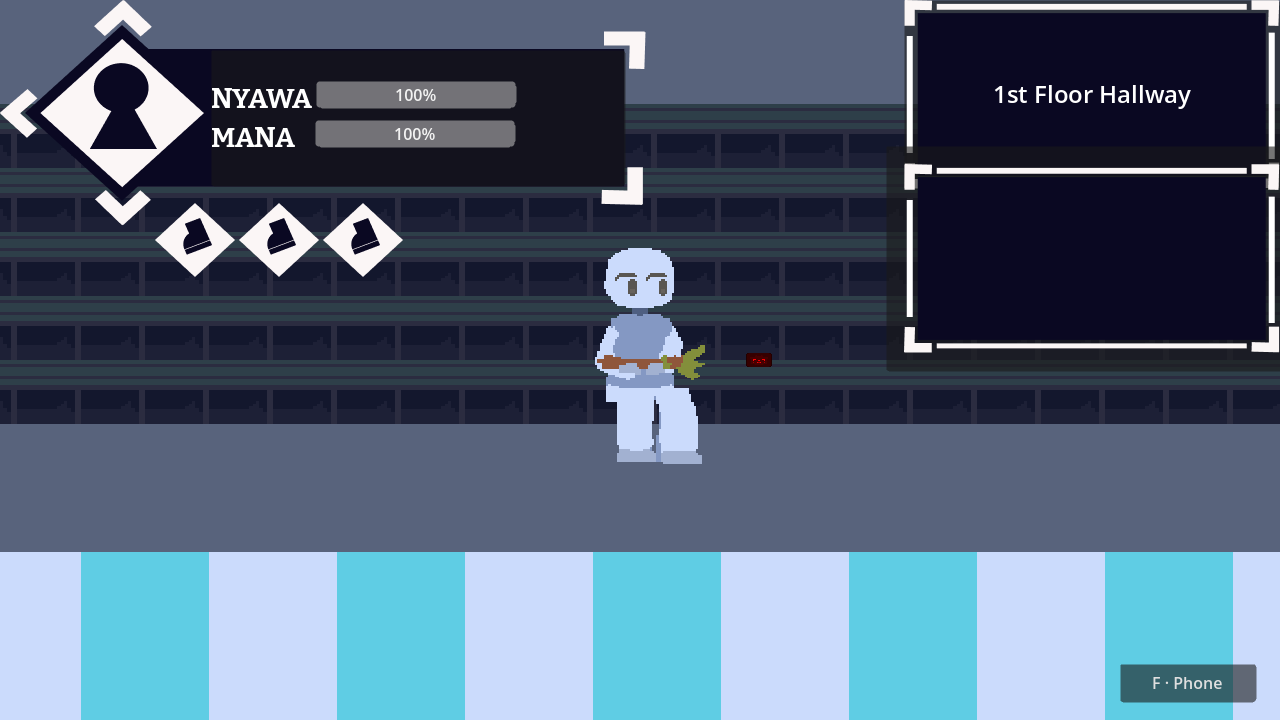
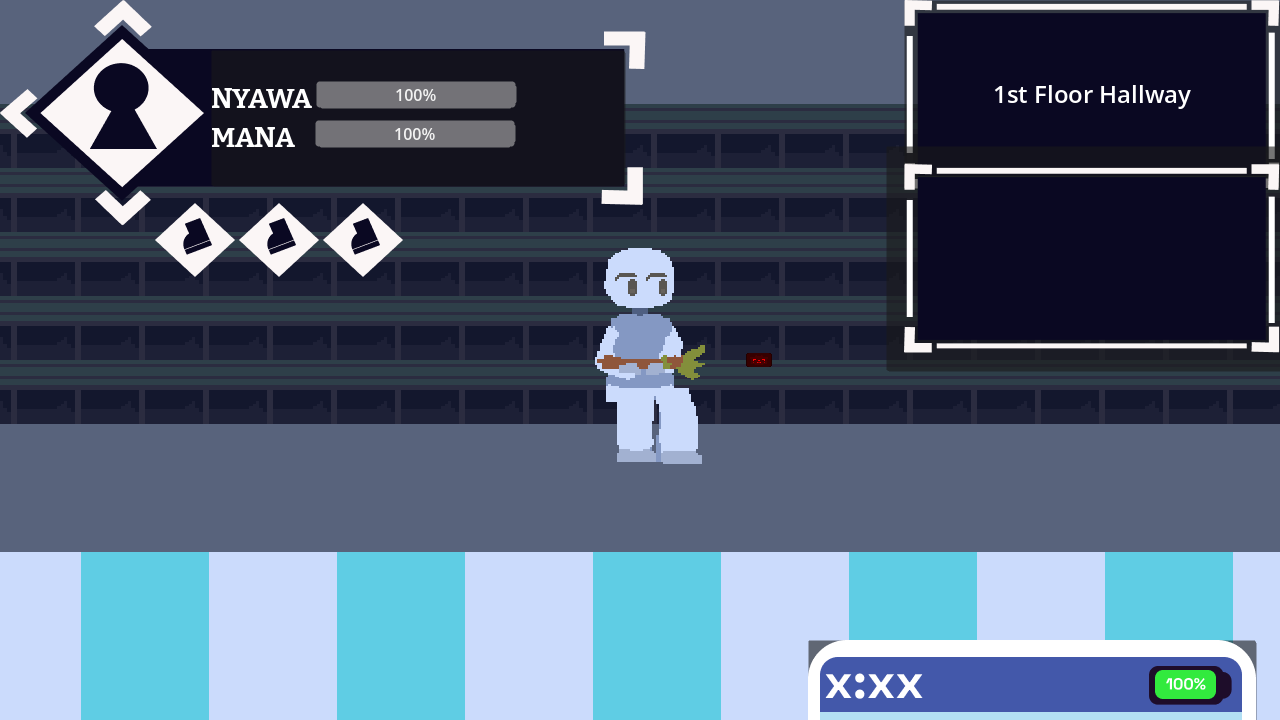
fix: route crate app through overlay and restore phone preview

Changed region(s): [[0.625, 0.8861, 1.0, 1.0]]

diff --git a/docs/phone-input-fix.md b/docs/phone-input-fix.md
@@ -8,7 +8,7 @@ The phone is now a sibling of the combat/overworld HUDs in the production camera
 
 Both worktrees now use **F for phone** and **E for NPC/object interactions**. Nearby interactions take priority over E pushback. F is no longer an alternative interaction key, avoiding conflicts with the phone. A visible, clickable F · Phone button sits at the bottom-right while the phone is closed; its hint follows keyboard rebinding. Stop and restart an existing play session after changing project input mappings.
 
-The --actual-overworld fixture loads the production FLAC hallway, injects physical F to open/close the phone, checks onscreen bounds and clicks the actual launcher. Native verification: 6 checks / 0 failures. Captures: docs/previews/phone-overworld-closed.png and phone-overworld-open.png.
+The --actual-overworld fixture loads the production FLAC hallway, injects physical F to open/close the phone, checks onscreen bounds and clicks the actual launcher. Native verification (including crate inventory): 10 checks / 0 failures. Captures: docs/previews/phone-overworld-closed.png and phone-overworld-open.png.
 
 Verification:
 
@@ -26,3 +26,13 @@ flatpak run org.godotengine.Godot --headless --path . tests/phone-and-push-input
 ```
 
 Omit --headless and append --capture-phone to capture both viewport sizes. This fixture creates only process-local test state and does not write campaign saves. The quest-accessibility fixture now opens the phone before launching its app, matching the actual supported UI flow.
+
+## Crate inventory and original phone preview
+
+The separate Phone HUD button has been removed. The actual phone now rests with its top 80 pixels visible at the bottom-right, matching the original preview; F or clicking that preview slides it up. The preview height is exported for appearance tuning and still respects viewport scaling.
+
+The crate Inventory app now routes through the phone handler (fullscreen=false), which opens InventoryOverlay and pauses the current world. It no longer switches scenes through App._on_clicked. A dangling App signal connection to a nonexistent method was removed. Inventory V2 and its item/equipment/save services are now present in the active environmental-interactions checkout as well as the inventory worktree. No branch merge or unrelated scene edits were performed.
+
+Actual FLAC native fixture: 10 checks / 0 failures, including the resting preview, physical F, preview click, real crate-icon click, Inventory V2 visibility, same-world pause and closing/resume. Image: docs/previews/phone-crate-inventory.png. Inventory V2 core: 52 checks / 0 failures.
+
+Active-checkout compatibility after inventory integration: quest pipeline 172/0, quest accessibility 90/0, environmental interactions 83/0, live spell audit 46/0, spell equipment UI 38/0, Save V1 writer/reader 60/0 and 20/0, environment persistence writer/reader 4/0 each. Existing resource-in-use diagnostics at engine shutdown remain.
